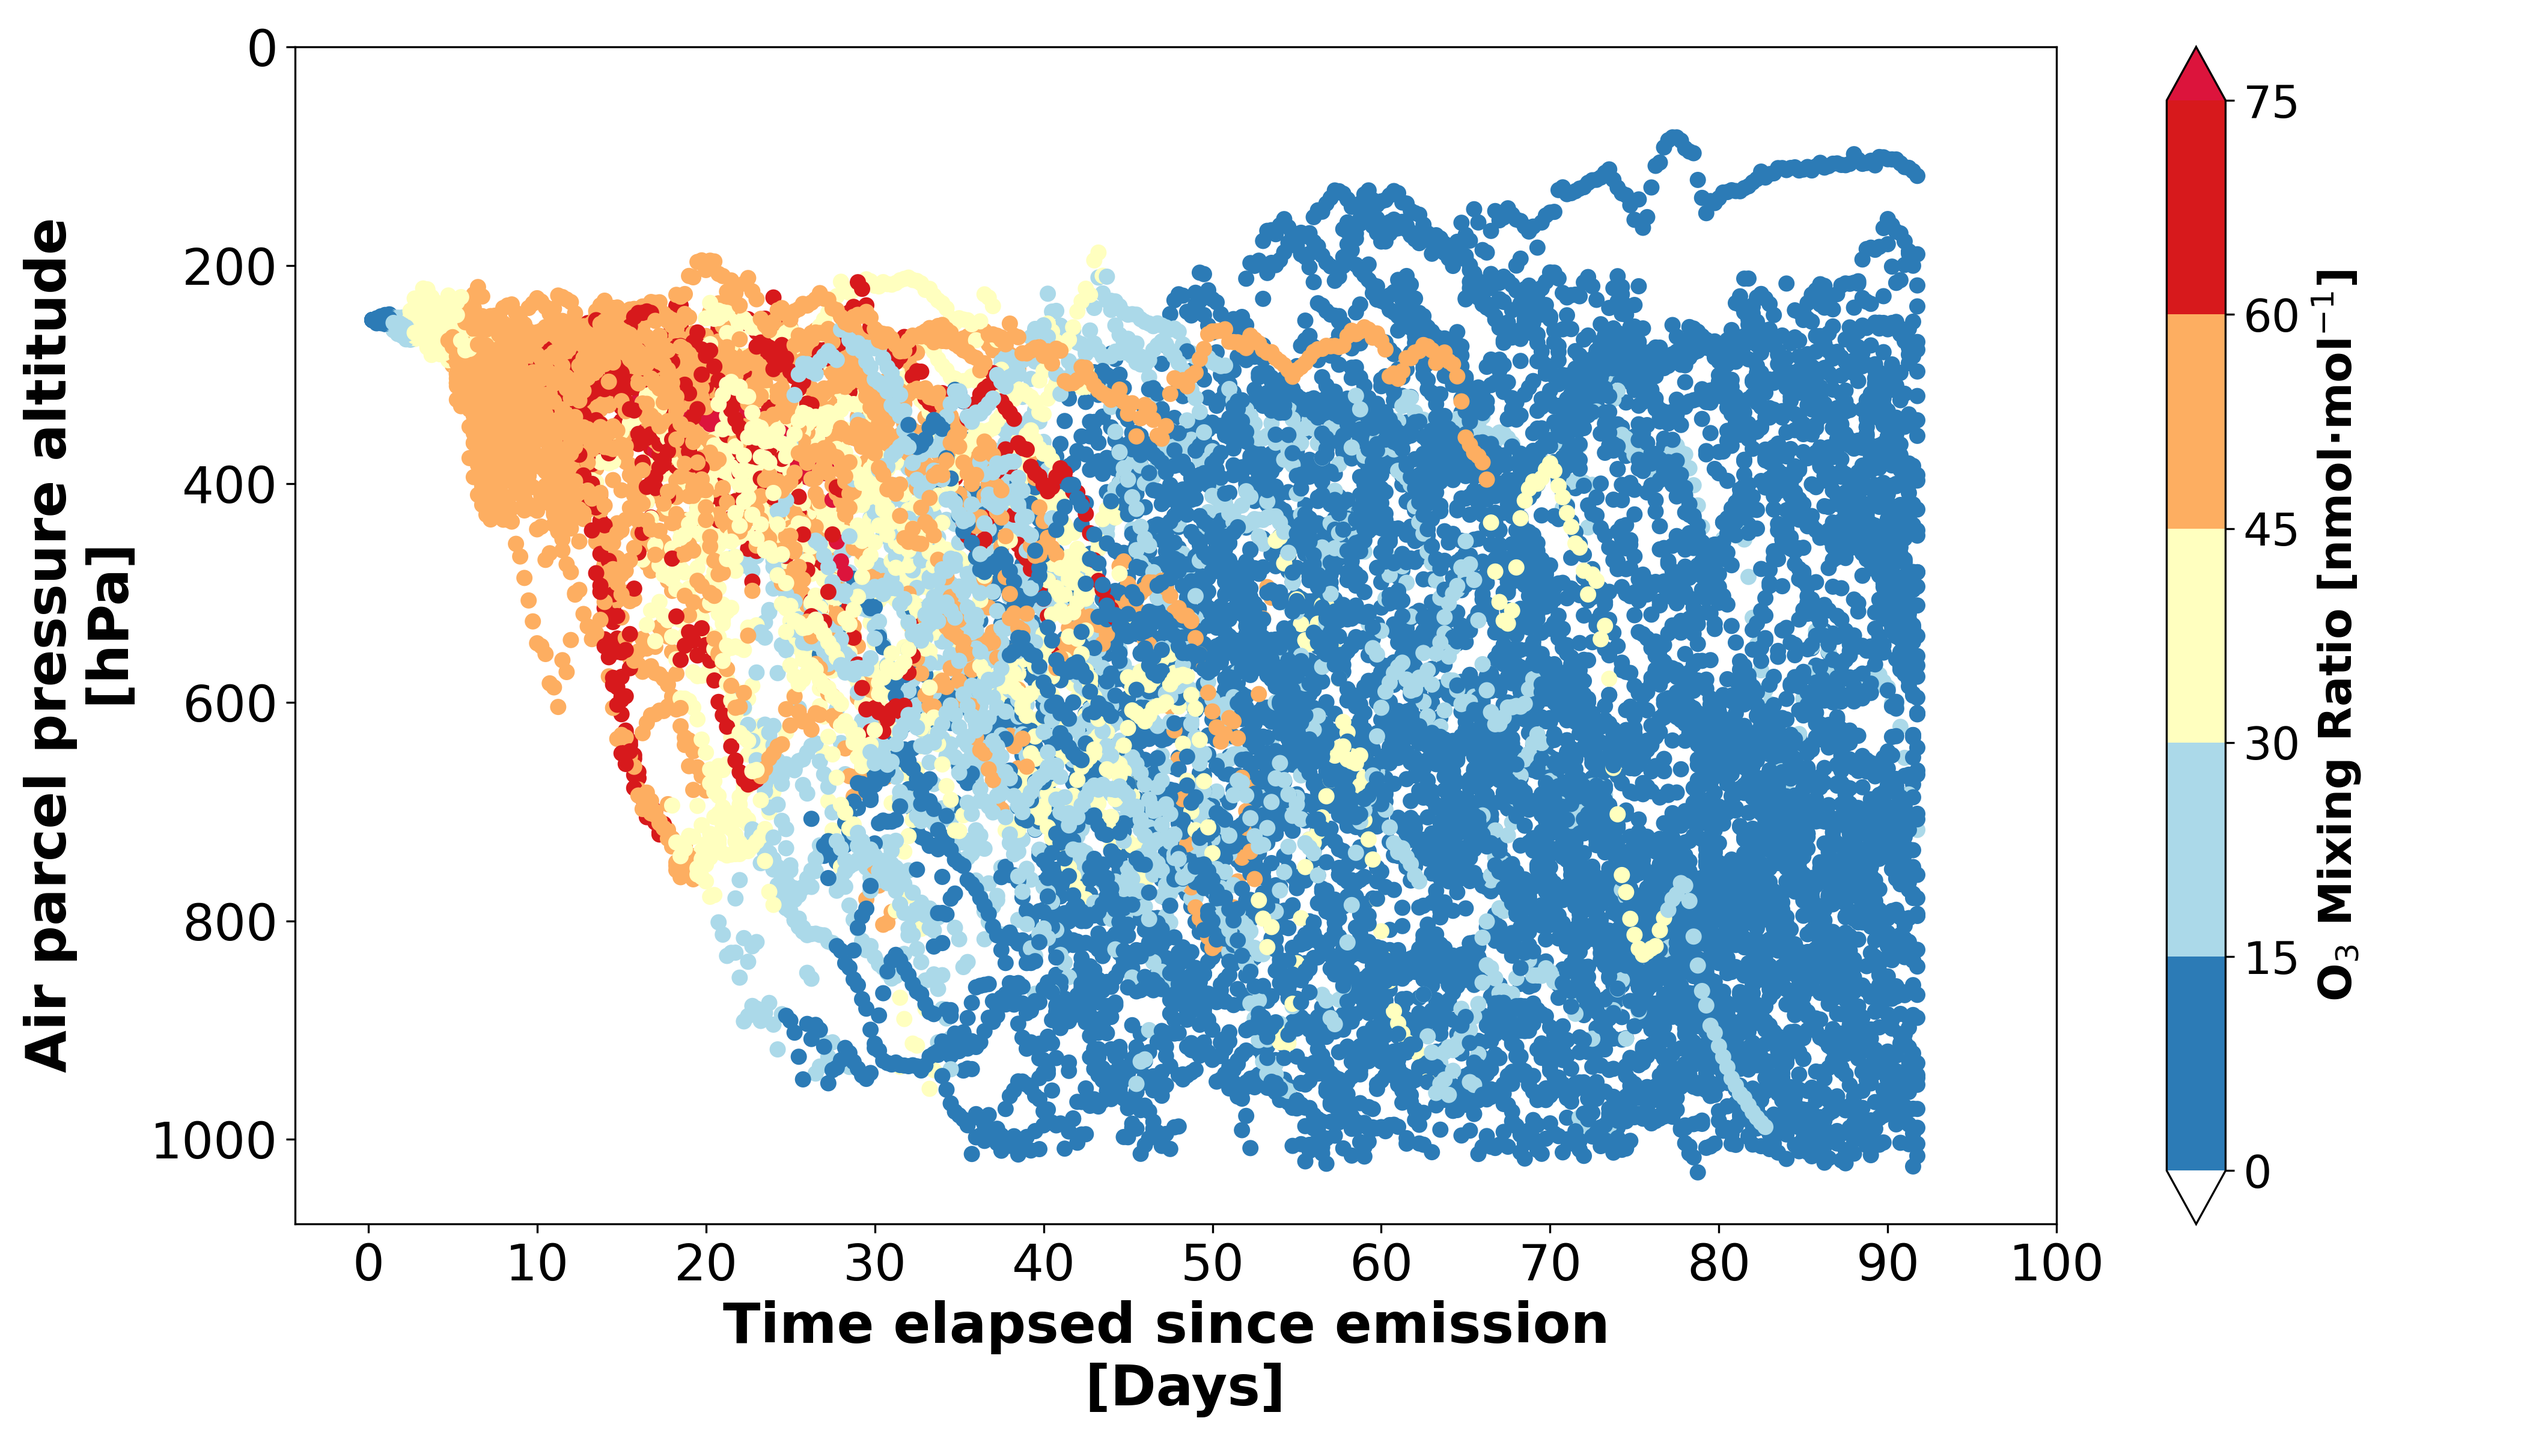
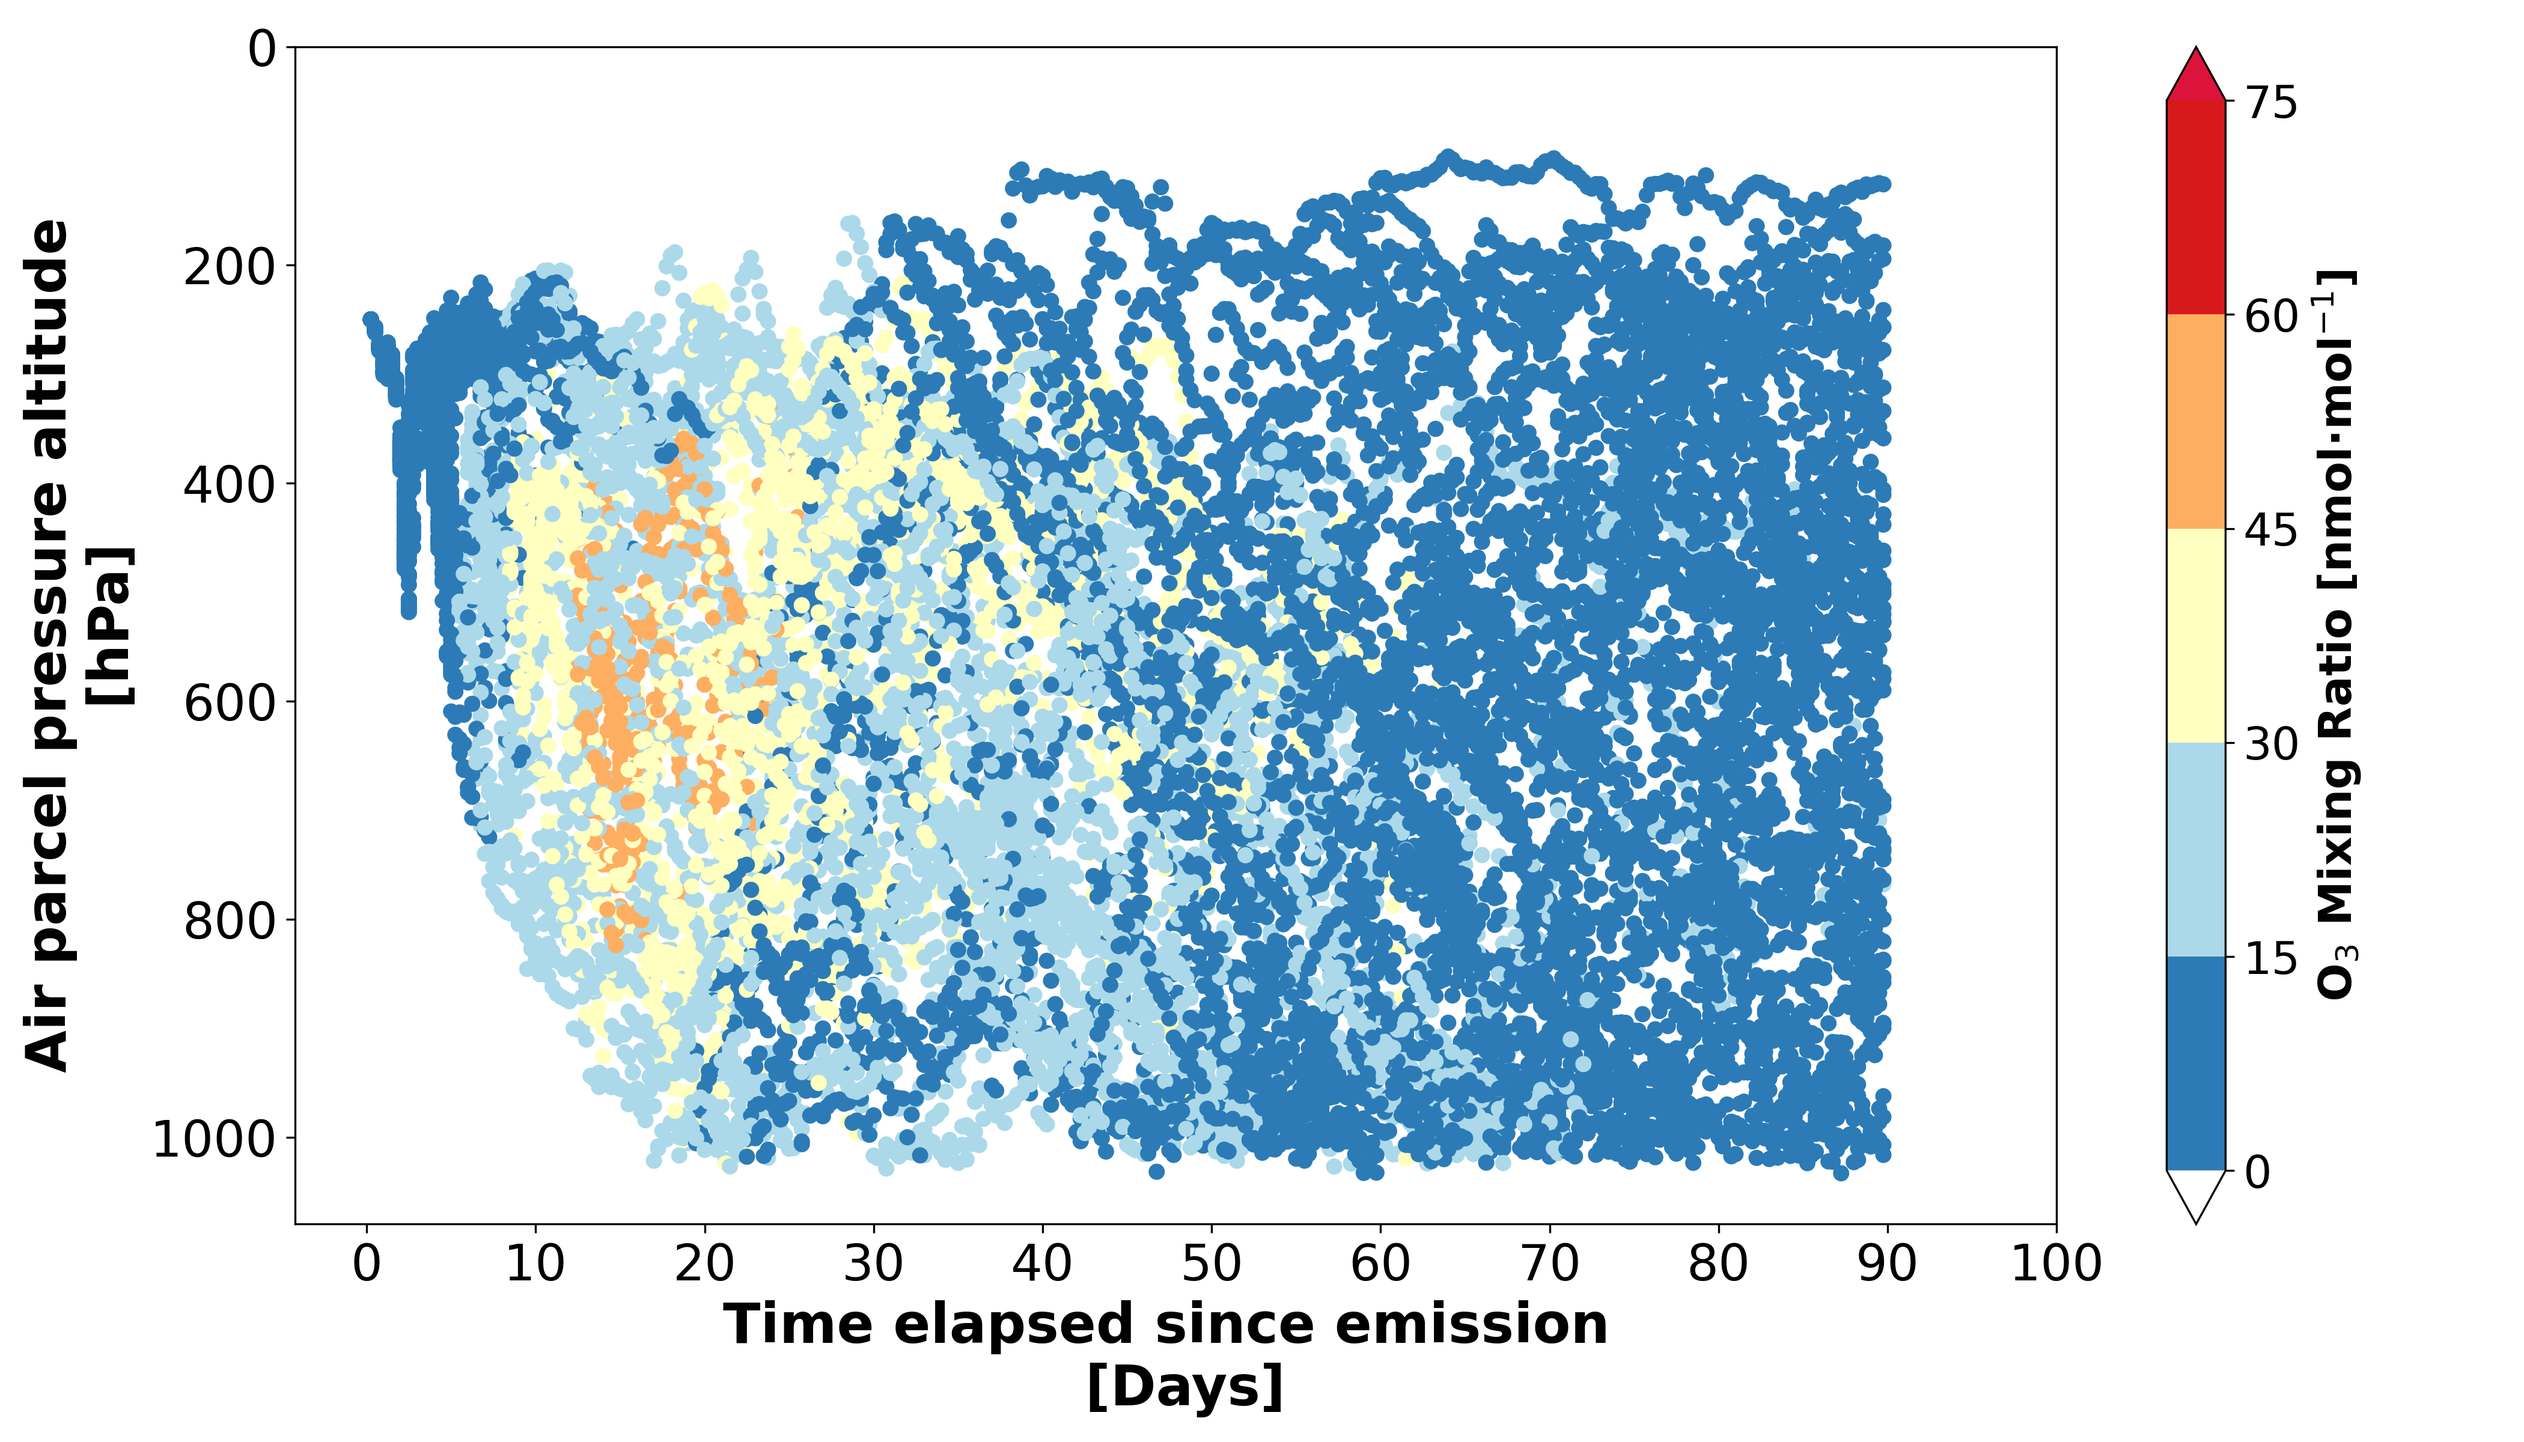
velocity v4.8.5

Changed region(s): [[0.1248, 0.0938, 0.7798, 0.8125], [0.0624, 0.625, 0.0936, 0.6562]]

diff --git a/A04_GroupFiles_27 February, 2023 1109/Velocity.py b/A04_GroupFiles_27 February, 2023 1109/Velocity.py
@@ -14,13 +14,9 @@ arising from a short-term increase in ozone.'''
 # USER INPUT - File path
 # f_string = 'C:/Users/Carolina Silvestre\Desktop\dataproject*' #Insert file path to input data, do not forget wildcard
 
-<<<<<<< Updated upstream
-
-=======
-load_data_from = str('Summer250')
+load_data_from = str('Winter250')
 
 f_string = 'C:/Users/alexm/AE2224/DATA_ANALYSIS/' + load_data_from + '/*'
->>>>>>> Stashed changes
 
 import scipy.stats
 from matplotlib.animation import FuncAnimation
@@ -591,18 +587,11 @@ ax[0].invert_yaxis()
 
 colors = ["#2c7bb6", "#abd9e9", "#ffffbf", "#fdae61", "#d7191c"]
 cmap = matplotlib.colors.ListedColormap(colors)
-<<<<<<< Updated upstream
-ax[1].scatter(RoD_arr_new_method, MR_avg_new_method_arr, s = 2)
-#ax[1].set_title('RoD vs. MR', fontweight = 'bold')
-ax[1].set_xlabel('RoD [hPa/D]', fontweight = 'bold')
-ax[1].set_ylabel('Mean O3 Mixing Ratio [mol*mol^-1]', fontweight = 'bold')
-=======
 ax[1].scatter(RoD_arr_new_method, MR_avg_new_method_arr * 10E9, s = 2)
 ax[1].set_title('RoD vs. MR', fontweight = 'bold')
 ax[1].set_xlabel('RoD', fontweight = 'bold')
 ax[1].set_ylabel('Average MR', fontweight = 'bold')
 norm = matplotlib.colors.Normalize(vmin=0, vmax=0.2)
->>>>>>> Stashed changes
 fig.subplots_adjust(wspace = 0.4)
 for i in index_array:
     traj = ppress[:, int(i)]
@@ -814,7 +803,7 @@ if attila_switch == True and o3tracer_switch == True and original_plot == True:
     norm= matplotlib.colors.Normalize(vmin=0,vmax=75)
     
     #Scatter plot command
-    for parcel3 in range(0, 50):
+    for parcel3 in range(1350, 1400):
         sc = ax.scatter(time, ppress[:,parcel3], s=30, marker='o', 
                     c=airO3_001[:,parcel3]*1E09,
                     cmap=cmap,norm=norm ,linewidth=1)
@@ -845,7 +834,7 @@ if attila_switch == True and o3tracer_switch == True and original_plot == True:
     
     #Save and close the map plot
     plt.tight_layout() #Ensure all parts of the plot will show after saving
-    plt.savefig("air_parcel_ID_0-50_vertical_colorbar.png",
+    plt.savefig("air_parcel_ID_0-50A_vertical_colorbar.png",
                 format="png",dpi=300)
     plt.show()
     plt.close()
